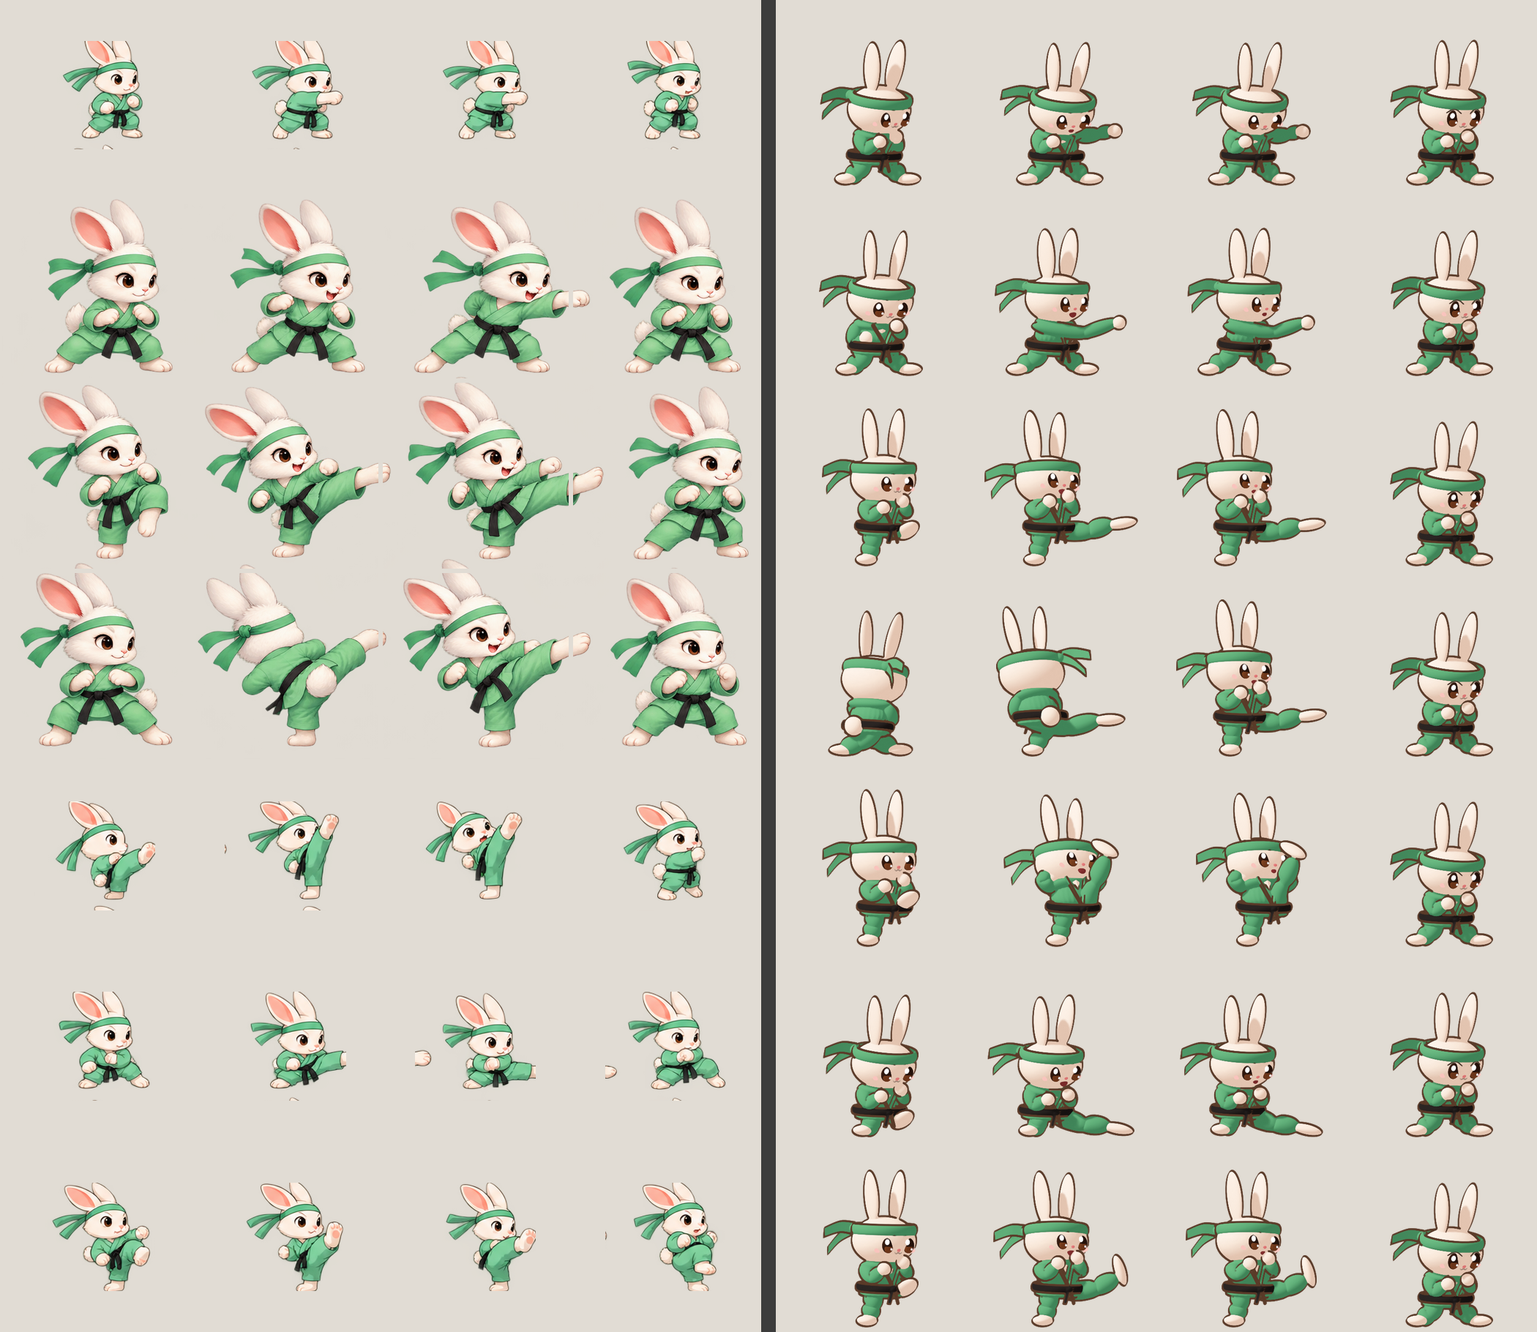
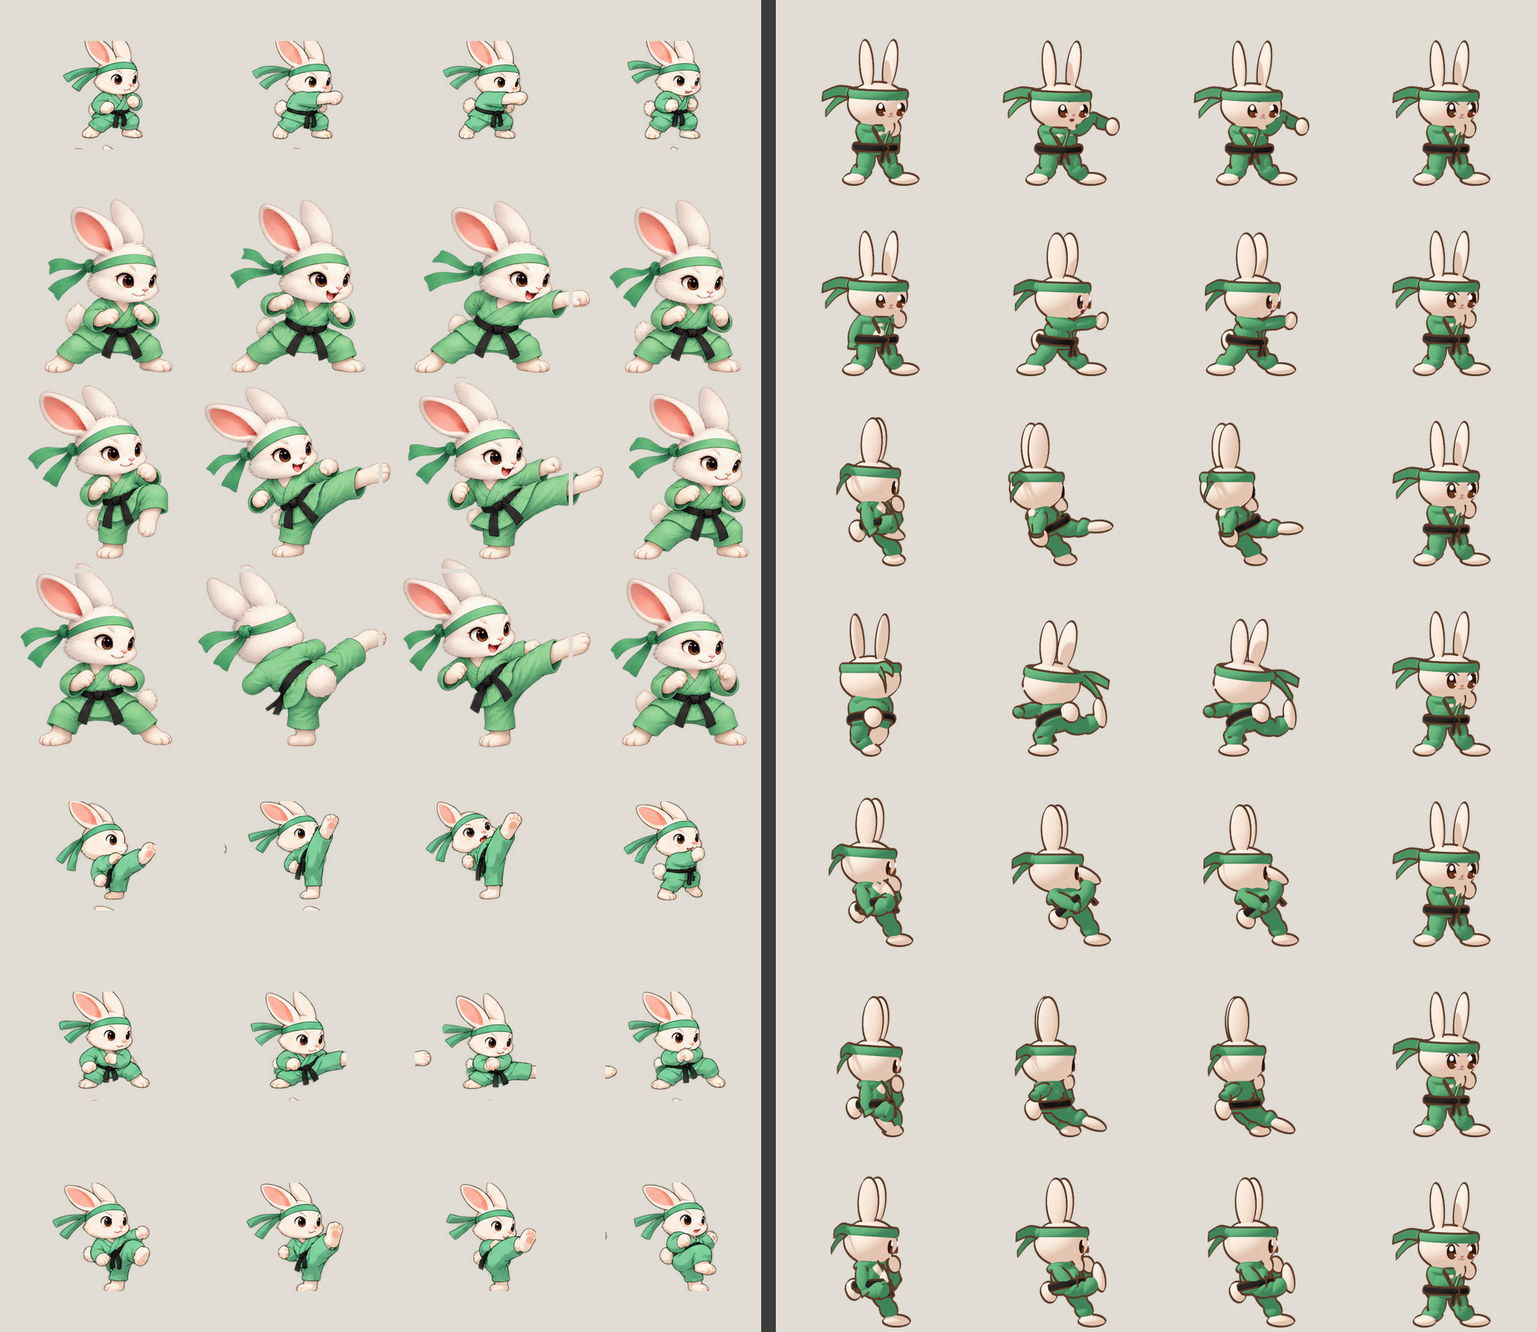
Rig moves follow karate body mechanics: no limb stretch, stance, hip rotation, pivots, level head
Longer legs and arms so real extension clears the round body; reach comes from steps,
hip and shoulder rotation and trunk lean. Rear-leg kicks with supporting-foot pivot.

Claude-Session: https://claude.ai/code/session_01Cxj9v8kuHG4m2LqNwpFq7h

diff --git a/tools/blender/moves.py b/tools/blender/moves.py
@@ -17,55 +17,74 @@ ONLY = set(argv[1].split(',')) if len(argv) > 1 and argv[1] else None
 RES = int(argv[2]) if len(argv) > 2 else 512
 
 # ---------- the moves ----------
-# Strike and foot targets ending in _s are in SCREEN space: (across to the right toward the opponent, depth away from
-# the camera, height). A strike aimed "forward" from a three-quarter view mostly travels toward the camera and reads
-# as nothing on screen; the painted sprites aim every strike straight across the screen, so these do too.
+# Real karate body mechanics (see the karate-body-mechanics skill), not stretchy limbs: reach comes from the stance,
+# a step, the hips and shoulders turning and the trunk leaning. Arms and legs keep their length.
+# The fighter stands on the line toward the opponent: model -Y is toward the opponent (screen right, yaw 90), +X is
+# its left = away from the camera. Orthodox stance: left foot and left fist lead; the hips and chest turn side-on
+# (hanmi) to their right, which is what shows the chest to the camera.
+# Hands are offsets from the chest bone's head and feet are positions on the ground, both in body space (they turn
+# with a spin, not with the hips); `root` steps the whole fighter.
 GROUND = .15
 def stance(**kw):
-    p = dict(pelvis=(0, 0, -.32), pelvisRot=(6, 0, 0), spine=(4, 0, 0), chest=(0, 0, 0), head=(4, 0, 6),
-             footL_s=(.8, .14, GROUND), footR_s=(-.78, -.12, GROUND), footLRot=(0, 0, 12), footRRot=(0, 0, -28),
-             handL=(.28, -.56, .26), handR=(-.3, -.52, .12), eyes='open', mouth='smile', ears=0, ties=0, yaw=28, spin=0)
+    p = dict(root=(0, 0, 0), spin=0, pelvis=(0, 0, -.3), pelvisRot=(4, 0, -58), spine=(4, 0, -4), chest=(0, 0, -8), head=(4, 0, 14),
+             footL=(.12, -.7, GROUND), footR=(-.16, .7, GROUND), footLRot=(0, 0, -8), footRRot=(0, 0, -60),
+             handL=(.1, -.62, .22), handR=(-.12, -.32, .24), eyes='open', mouth='smile', ears=0, ties=0, yaw=90)
     p.update(kw); return p
 FOCUS = dict(eyes='focus')
 MOVES = {}
-# Combo 1 - lead jab (kizami-zuki): the far fist snaps straight across at chin height, shoulders turn a little in.
-MOVES['punch1'] = [stance(**FOCUS, chest=(0, 0, 8), handL=(.32, -.4, .22)),
-                   stance(**FOCUS, chest=(4, 0, -10), head=(4, 0, 12), handL_s=(1.55, .05, 1.42), handR=(-.3, -.45, .14), mouth='open', ties=-8),
-                   stance(**FOCUS, chest=(4, 0, -9), head=(4, 0, 11), handL_s=(1.45, .05, 1.4), handR=(-.3, -.45, .14), ties=-4),
-                   stance(chest=(0, 0, -3))]
-# Combo 2 - reverse punch (gyaku-zuki): the near fist chambers at the hip, then drives across the body at full reach
-# as the hips turn; the other fist pulls back to the hip (hikite); back leg straight; kiai.
-MOVES['punch2'] = [stance(**FOCUS, chest=(0, 0, -8), handR=(-.38, -.18, -.12), handL=(.3, -.62, .3)),
-                   stance(**FOCUS, pelvis=(0, 0, -.3), pelvisRot=(8, 0, 10), chest=(6, 0, 12), head=(-14, 0, -6), handR_s=(1.75, -.2, 1.38),
-                          handL=(.38, -.12, -.12), footR_s=(-.95, -.12, GROUND), mouth='shout', ties=-12),
-                   stance(**FOCUS, pelvis=(0, 0, -.3), pelvisRot=(8, 0, 9), chest=(6, 0, 11), head=(-14, 0, -5), handR_s=(1.65, -.2, 1.38),
-                          handL=(.38, -.12, -.12), footR_s=(-.95, -.12, GROUND), mouth='open', ties=-7),
-                   stance(chest=(0, 0, 3))]
-def kick(chamber, target, footRot, lean=-14, low=False, arms_out=False):
-    base = dict(**FOCUS, pelvis=(0, 0, -.42 if low else -.06), footR_s=(-.42, -.1, GROUND), footRRot=(0, 0, -35))
-    out = dict(handL=(.55, -.2, .4), handR=(-.55, -.1, .45)) if arms_out else {}
-    return [stance(**base, footL_s=chamber, footLRot=(-30, 0, 0), spine=(lean * .4, 0, 0), handL=(.3, -.5, .3)),
-            stance(**base, footL_s=target, footLRot=footRot, spine=(lean, 0, 0), chest=(lean * .3, 0, 0), head=(-lean * .6, 0, 10),
-                   mouth='shout', ties=-14, **out),
-            stance(**base, footL_s=(target[0] - .08, target[1], target[2] - .04), footLRot=footRot, spine=(lean * .9, 0, 0), chest=(lean * .3, 0, 0),
-                   head=(-lean * .6, 0, 10), mouth='open', ties=-8, **out),
-            stance(pelvis=(0, 0, -.34), handL=(.28, -.55, .24))]
-# Combo 3 - roundhouse (mawashi-geri): knee chambers high, the leg snaps out flat at chest height, instep first.
-MOVES['combo_kick'] = kick((.6, -.1, .85), (1.75, .05, 1.1), 'point', lean=-20)
-# Combo 4 / back - spinning back kick (ushiro-geri): turn the back to the opponent and drive the heel across the
-# screen, then come round facing them with the leg still out (as in the painted frames), and settle.
-MOVES['spin_kick'] = [stance(**FOCUS, spin=110, chest=(0, 0, 8), ties=-12),
-                      stance(**FOCUS, spin=180, pelvis=(0, 0, -.06), footL_s=(1.7, .1, .95), footLRot='point', footR_s=(-.2, 0, GROUND),
-                             spine=(24, 0, 0), chest=(6, 0, 0), head=(-18, 0, 0), mouth='shout', ties=-20),
-                      stance(**FOCUS, spin=360, pelvis=(0, 0, -.06), footL_s=(1.7, .05, 1.05), footLRot='point', footR_s=(-.3, -.1, GROUND),
-                             spine=(-18, 0, 0), chest=(-4, 0, 0), head=(10, 0, 10), mouth='open', ties=-12),
-                      stance(pelvis=(0, 0, -.34))]
-# W - high kick: chamber, then the leg straight up past the head; standing leg straight, arms out for balance.
-MOVES['high_kick'] = kick((.55, -.3, 1.15), (.95, -.35, 2.45), 'sole', lean=-32, arms_out=True)
-# S - low sweep: drop low, the leg sweeps out flat along the floor.
-MOVES['low_kick'] = kick((.55, -.1, .35), (1.8, .05, .22), 'point', lean=8, low=True)
-# Forward - front push kick (mae-geri): knee up, then the sole drives across at chest height.
-MOVES['front_kick'] = kick((.55, -.15, .95), (1.65, .05, 1.3), 'sole', lean=-18)
+# Combo 1 - jab (kizami-zuki): the lead foot slides in, the lead hip and shoulder push forward (turning even more
+# side-on), the lead fist drives straight to chin height; the head stays level; slide back to stance.
+MOVES['punch1'] = [stance(**FOCUS, pelvis=(0, 0, -.26), handL=(.12, -.5, .2)),
+                   stance(**FOCUS, root=(0, -.28, 0), footL=(.12, -.8, GROUND), pelvisRot=(6, 0, -72), chest=(2, 0, -14), head=(4, 0, 32),
+                          handL=(.12, -1.55, .3), handR=(-.12, -.3, .26), mouth='open', ties=-8),
+                   stance(**FOCUS, root=(0, -.3, 0), footL=(.12, -.8, GROUND), pelvisRot=(6, 0, -74), chest=(2, 0, -14), head=(4, 0, 32),
+                          handL=(.12, -1.52, .3), handR=(-.12, -.3, .26), ties=-4),
+                   stance(root=(0, -.1, 0))]
+# Combo 2 - reverse punch (gyaku-zuki): from side-on, the rear heel drives and the back leg straightens, the hips
+# turn square to the target, the shoulders follow, the rear fist drives straight out as the lead fist pulls back
+# to the hip (hikite); the front knee bends over the foot; head level; kiai.
+MOVES['punch2'] = [stance(**FOCUS, handR=(-.22, -.05, -.28), handL=(.1, -.66, .22)),
+                   stance(**FOCUS, root=(0, -.15, 0), pelvis=(0, 0, -.34), pelvisRot=(8, 0, -32), spine=(6, 0, 2), chest=(2, 0, 4), head=(2, 0, 4),
+                          footL=(.12, -.85, GROUND), footR=(-.16, .9, GROUND), footRRot=(0, 0, -25),
+                          handR=(-.02, -1.25, .24), handL=(.24, .02, -.26), mouth='shout', ties=-12),
+                   stance(**FOCUS, root=(0, -.15, 0), pelvis=(0, 0, -.34), pelvisRot=(8, 0, -33), spine=(6, 0, 2), chest=(2, 0, 4), head=(2, 0, 4),
+                          footL=(.12, -.85, GROUND), footR=(-.16, .9, GROUND), footRRot=(0, 0, -25),
+                          handR=(-.02, -1.22, .24), handL=(.24, .02, -.26), mouth='open', ties=-7),
+                   stance(root=(0, -.05, 0))]
+# Combo 3 - roundhouse (mawashi-geri) with the rear leg, flowing on from the reverse punch: the front (supporting)
+# foot pivots out until its heel points at the target, the rear knee chambers high and comes across, the hip turns
+# over, the trunk leans away to balance the leg, the kicking-side arm swings back, the other guards the face; the
+# shin snaps out flat, instep first; re-chamber and set down.
+def rear_kick(chamber, target, foot_aim, lean, roll=0, hips_turn=60, pivot=100, low=False, step=0, arms_back=True):
+    sup = dict(footL=(.1, -.6, GROUND), footLRot=(0, 0, pivot), pelvis=(0, 0, -.42 if low else -.12))
+    back = dict(handR=(-.35, .3, -.05), handL=(.12, -.45, .3)) if arms_back else {}
+    return [stance(**FOCUS, **sup, footR=chamber, footRRot=foot_aim, pelvisRot=(lean * .4, roll * .4, hips_turn * .4 - 30), spine=(lean * .3, 0, 0), chest=(0, 0, -hips_turn * .3),
+                   handR=(-.2, -.1, .1)),
+            stance(**FOCUS, **sup, root=(0, -step, 0), footR=target, footRRot=foot_aim, pelvisRot=(lean, roll, hips_turn - 30), spine=(lean * .5, roll * .5, 0),
+                   chest=(0, 0, -hips_turn * .55), head=(0, 0, 10), mouth='shout', ties=-16, **back),
+            stance(**FOCUS, **sup, root=(0, -step, 0), footR=(target[0], target[1] + .05, target[2] - .05), footRRot=foot_aim, pelvisRot=(lean * .95, roll, hips_turn - 30),
+                   spine=(lean * .5, roll * .5, 0), chest=(0, 0, -hips_turn * .55), head=(0, 0, 10), mouth='open', ties=-10, **back),
+            stance(root=(0, -step * .6, 0))]
+MOVES['combo_kick'] = rear_kick((-.15, -.3, 1.0), (-.02, -1.35, 1.2), 'point', -24, roll=14, hips_turn=75, pivot=120, step=.15)
+# Combo 4 / back - spinning back kick (ushiro-geri): turn on the front foot until the back faces the target, knee to
+# the chest, trunk hunched forward; drive the heel straight back at the target, the hips pushing back behind it;
+# land while the back still faces it, then turn back into stance. Frame 1 is the back view the game uses.
+MOVES['spin_kick'] = [stance(**FOCUS, spin=95, pelvisRot=(14, 0, 0), spine=(14, 0, 0), chest=(0, 0, 0), head=(0, 0, -35),
+                             footL=(.0, -.2, GROUND), footR=(-.25, -.15, .7), footRRot='point', handL=(.15, -.35, .2), handR=(-.15, -.35, .2), ties=-14),
+                      stance(**FOCUS, spin=180, root=(0, -.25, 0), pelvisRot=(30, 0, -50), spine=(22, 0, -10), chest=(0, 0, -10), head=(-10, 0, 30),
+                             footL=(.08, -.3, GROUND), footR=(-.05, 1.2, 1.05), footRRot='sole', handL=(.2, -.35, .1), handR=(-.2, -.35, .1), mouth='shout', ties=-20),
+                      stance(**FOCUS, spin=180, root=(0, -.25, 0), pelvisRot=(28, 0, -50), spine=(20, 0, -10), chest=(0, 0, -10), head=(-10, 0, 30),
+                             footL=(.08, -.3, GROUND), footR=(-.05, 1.17, 1.0), footRRot='sole', handL=(.2, -.35, .1), handR=(-.2, -.35, .1), mouth='open', ties=-12),
+                      stance(root=(0, -.15, 0))]
+# W - high kick with the rear leg: knee chambers high, then the straight leg rises past the head as the trunk leans
+# back to balance it (the lower the trunk, the higher the leg) and the hips push forward; arms keep guard.
+MOVES['high_kick'] = rear_kick((-.12, -.4, 1.35), (-.06, -.85, 2.5), 'sole', -36, hips_turn=20, pivot=40, step=.1, arms_back=False)
+# S - low kick: sink on the bent supporting leg, the front foot pivots, the hip turns over and the rear shin
+# sweeps low at the opponent's legs; the trunk stays upright.
+MOVES['low_kick'] = rear_kick((-.15, -.25, .45), (-.02, -1.35, .3), 'point', -6, hips_turn=55, pivot=110, low=True, step=.1)
+# Forward - front push kick (mae-geri) with the rear leg: knee up to the chest, toes pulled back, then the hips thrust
+# forward behind the ball of the foot at chest height, upper body upright; retract to the chamber and set down.
+MOVES['front_kick'] = rear_kick((-.12, -.3, 1.1), (-.05, -1.3, 1.35), 'sole', -12, hips_turn=15, pivot=30, step=.2, arms_back=False)
 MOVES['idle'] = [stance()]
 
 # ---------- posing ----------
@@ -75,29 +94,29 @@ def set_bone(rig, name, R, pos=None):
     head = Vector(pos) if pos is not None else pb.head.copy()
     pb.matrix = Matrix.Translation(head) @ (R @ pb.bone.matrix_local.to_3x3()).to_4x4(); upd()
 
-def reach(rig, upper, lower, target, slack=.97):
-    # Cartoon reach: lengthen a two-bone limb along its bones only (the lower bone inherits it, aligned) so IK can
-    # land the paw or foot on a far target without the limb getting thicker.
+def clamp_reach(rig, upper, lower, target, slack=.985):
+    # Limbs never stretch: a target out of reach is pulled in along the limb, so reach has to come from the body.
     pu = rig.pose.bones[upper]; total = pu.bone.length + rig.pose.bones[lower].bone.length
-    k = max(1.0, (Vector(target) - pu.head).length / (total * slack)); pu.scale = (1, k, 1); upd()
+    base = pu.head.copy(); d = Vector(target) - base
+    return base + d.normalized() * min(d.length, total * slack) if d.length > 1e-6 else Vector(target)
 
 def apply_pose(rig, P):
     for pb in rig.pose.bones: pb.matrix_basis = Matrix.Identity(4)
     upd()
-    Rs = rotm((0, 0, P['spin']))
-    set_bone(rig, 'root', Rs, (0, 0, 0))
-    Rp = Rs @ rotm(P['pelvisRot']); set_bone(rig, 'pelvis', Rp, Rs @ (Vector((0, 0, 1.0)) + Vector(P['pelvis'])))
+    Rs = rotm((0, 0, P['spin'])); R0 = Vector(P['root'])
+    set_bone(rig, 'root', Rs, R0)
+    Rp = Rs @ rotm(P['pelvisRot']); set_bone(rig, 'pelvis', Rp, R0 + Rs @ (kbrig.warp((0, 0, 1.0)) + Vector(P['pelvis'])))
     Rsp = Rp @ rotm(P['spine']); set_bone(rig, 'spine', Rsp)
     Rc = Rsp @ rotm(P['chest']); set_bone(rig, 'chest', Rc)
-    Rh = Rc @ rotm(P['head']); set_bone(rig, 'head', Rh)
+    # Karate keeps the head level: the head takes the body's turn but not its lean, plus its own nod, tilt and turn.
+    turn = P['spin'] + P['pelvisRot'][2] + P['spine'][2] + P['chest'][2]
+    Rh = rotm((0, 0, turn)) @ rotm(P['head']); set_bone(rig, 'head', Rh)
     for s, L in ((1, 'L'), (-1, 'R')):
         Re = Rh @ rotm((-P['ears'], 0, 0)); set_bone(rig, f'ear_a.{L}', Re); set_bone(rig, f'ear_b.{L}', Re @ rotm((-P['ears'] * .6, 0, 0)))
-        chest_head = rig.pose.bones['chest'].head.copy(); toscreen = rotm((0, 0, -P['yaw']))  # screen space -> model space
-        hand = toscreen @ Vector(P['hand' + L + '_s']) if 'hand' + L + '_s' in P else chest_head + Rc @ Vector(P['hand' + L])
-        reach(rig, f'upper_arm.{L}', f'forearm.{L}', hand)
+        chest_head = rig.pose.bones['chest'].head.copy()
+        hand = clamp_reach(rig, f'upper_arm.{L}', f'forearm.{L}', chest_head + Rs @ Vector(P['hand' + L]))
         set_bone(rig, f'hand_ik.{L}', Rc, hand)
-        foot = toscreen @ Vector(P['foot' + L + '_s']) if 'foot' + L + '_s' in P else Rs @ Vector(P['foot' + L])
-        reach(rig, f'thigh.{L}', f'shin.{L}', foot)
+        foot = clamp_reach(rig, f'thigh.{L}', f'shin.{L}', R0 + Rs @ Vector(P['foot' + L]))
         fr = P['foot' + L + 'Rot']
         if isinstance(fr, str):  # aim the foot from the hip along the leg: toes pointed ('point') or sole to the target ('sole')
             hipj = rig.pose.bones[f'thigh.{L}'].head.copy(); d = (foot - hipj).normalized()
@@ -108,6 +127,7 @@ def apply_pose(rig, P):
             set_bone(rig, f'foot_ik.{L}', Rf, foot)  # Rf turns the rest foot (toes -Y, top +Z) to the new axes
         else:
             set_bone(rig, f'foot_ik.{L}', Rs @ rotm(fr), foot)
+
     for t in ('tie1', 'tie2'):
         set_bone(rig, f'{t}_a', Rh @ rotm((0, 0, P['ties']))); set_bone(rig, f'{t}_b', Rh @ rotm((0, 0, P['ties'] * 1.6)))
 
@@ -152,7 +172,7 @@ def kuwahara(scene, size=4):
 
 # ---------- build, key, render ----------
 bpy.ops.wm.read_factory_settings(use_empty=True)
-scene, root_empty, decals = kbpuppet.setup_scene(RES, 6.8, (0, 2.3), 2.0 * RES / 512)
+scene, root_empty, decals = kbpuppet.setup_scene(RES, 7.4, (0, 2.5), 2.0 * RES / 512)
 bpy.data.objects.remove(root_empty)
 rig = kbrig.build_armature(scene); parts = kbrig.build_body(rig, decals)
 names = [n for n in MOVES if not ONLY or n in ONLY]

diff --git a/tools/blender/kbrig.py b/tools/blender/kbrig.py
@@ -6,6 +6,10 @@ import bpy, bmesh, math
 from mathutils import Vector, Matrix, Quaternion
 import kbpuppet  # materials and colour helpers
 
+LEG = .25  # extra leg length: real kicks need legs that reach past the round body
+def warp(v):
+    v = Vector(v); t = min(max((v.z - .15) / (.92 - .15), 0.0), 1.0); return Vector((v.x, v.y, v.z + LEG * t))
+
 def ss(a, b, x):
     t = min(max((x - a) / (b - a), 0.0), 1.0); return t * t * (3 - 2 * t)
 
@@ -32,10 +36,10 @@ def bone_table():
     for s, L in ((1, 'L'), (-1, 'R')):
         T[f'ear_a.{L}'] = ((s * .34, .04, 2.82), (s * .43, .04, 3.45), 'head', True, False)
         T[f'ear_b.{L}'] = ((s * .43, .04, 3.45), (s * .5, .04, 4.15), f'ear_a.{L}', True, True)
-        T[f'upper_arm.{L}'] = ((s * .6, 0, 1.58), (s * .86, .08, 1.18), 'chest', True, False)
-        T[f'forearm.{L}'] = ((s * .86, .08, 1.18), (s * .98, -.02, .8), f'upper_arm.{L}', True, True)
-        T[f'hand_ik.{L}'] = ((s * .98, -.02, .8), (s * .98, -.22, .8), 'root', False, False)
-        T[f'hand.{L}'] = ((s * .98, -.02, .8), (s * .98, -.22, .8), f'hand_ik.{L}', True, False)
+        T[f'upper_arm.{L}'] = ((s * .52, 0, 1.58), (s * .86, .08, 1.0), 'chest', True, False)
+        T[f'forearm.{L}'] = ((s * .86, .08, 1.0), (s * .96, -.04, .42), f'upper_arm.{L}', True, True)
+        T[f'hand_ik.{L}'] = ((s * .96, -.04, .42), (s * .96, -.24, .42), 'root', False, False)
+        T[f'hand.{L}'] = ((s * .96, -.04, .42), (s * .96, -.24, .42), f'hand_ik.{L}', True, False)
         T[f'thigh.{L}'] = ((s * .3, 0, .92), (s * .32, -.07, .53), 'pelvis', True, False)
         T[f'shin.{L}'] = ((s * .32, -.07, .53), (s * .34, 0, .15), f'thigh.{L}', True, True)
         T[f'foot_ik.{L}'] = ((s * .34, 0, .15), (s * .34, -.4, .15), 'root', False, False)
@@ -50,7 +54,7 @@ def build_armature(scene):
     bpy.context.view_layer.objects.active = rig; bpy.ops.object.mode_set(mode='EDIT')
     T = bone_table()
     for n, (h, t, par, deform, conn) in T.items():
-        eb = arm.edit_bones.new(n); eb.head, eb.tail = h, t; eb.use_deform = deform
+        eb = arm.edit_bones.new(n); eb.head, eb.tail = warp(h), warp(t); eb.use_deform = deform
     for n, (h, t, par, deform, conn) in T.items():
         eb = arm.edit_bones[n]
         if par: eb.parent = arm.edit_bones[par]; eb.use_connect = conn
@@ -117,6 +121,7 @@ class Parts:
     def __init__(self, rig, decals):
         self.rig, self.decals, self.objs, self.groups = rig, decals, [], {}
     def add(self, name, bm, mat, weights, mask='none', decal=False, smooth=True, subsurf=0, bevel=0):
+        for v in bm.verts: v.co = warp(v.co)
         me = bpy.data.meshes.new(name); bm.to_mesh(me); bm.free()
         ob = bpy.data.objects.new(name, me); (self.decals if decal else bpy.context.scene.collection).objects.link(ob)
         me.materials.append(mat); ob['mask'] = mask; ob.parent = self.rig
@@ -168,19 +173,19 @@ def build_body(rig, decals):
         P.add(f'ear.{L}', ellipsoid(mid, (.31, .13, (e2 - e0).length / 2 + .06), R), FUR, earw)
         P.add(f'inner.{L}', ellipsoid(mid + Vector((0, -.09, -.02)), (.2, .06, (e2 - e0).length / 2 - .06), R), m['PINK'], earw, decal=True)
     # torso: tapered jacket, round shoulders, skirt over the trousers, fur V and lapels
-    P.add('jacket', cone((0, 0, 1.36), .72, .55, .72, .75), GI, torso, subsurf=2)
-    P.add('shoulders', ellipsoid((0, 0, 1.64), (.68, .46, .2)), GI, rigid('chest'))
-    P.add('skirt', cone((0, 0, .9), .78, .7, .3, .78), GI, rigid('pelvis'), subsurf=2)
+    P.add('jacket', cone((0, 0, 1.36), .64, .5, .72, .76), GI, torso, subsurf=2)
+    P.add('shoulders', ellipsoid((0, 0, 1.64), (.6, .42, .2)), GI, rigid('chest'))
+    P.add('skirt', cone((0, 0, .95), .7, .63, .26, .78), GI, rigid('pelvis'), subsurf=2)
     bm = bmesh.new(); bmesh.ops.create_cone(bm, cap_ends=True, segments=3, radius1=.24, radius2=0, depth=.05)
-    _xf(bm, Matrix.Translation((0, -.42, 1.6)) @ Matrix.Rotation(math.radians(90), 4, 'X') @ Matrix.Rotation(math.radians(180), 4, 'Z') @ Matrix.Diagonal((1, 1.3, 1, 1)))
+    _xf(bm, Matrix.Translation((0, -.38, 1.6)) @ Matrix.Rotation(math.radians(90), 4, 'X') @ Matrix.Rotation(math.radians(180), 4, 'Z') @ Matrix.Diagonal((1, 1.3, 1, 1)))
     P.add('chestV', bm, FUR, rigid('chest'), smooth=False)
     for s in (1, -1):
-        P.add(f'lapel{s}', box((s * .3, -.43, 1.7), (-s * .03, -.56, 1.06), .1, .05), GI, torso, smooth=False, bevel=.02)
+        P.add(f'lapel{s}', box((s * .27, -.39, 1.7), (-s * .03, -.51, 1.06), .1, .05), GI, torso, smooth=False, bevel=.02)
     # belt, knot and hanging ends
-    P.add('belt', ring((0, 0, 1.06), .73, .57, 1.3, .085), m['BELT'], rigid('pelvis'), 'belt')
-    P.add('knot', ellipsoid((0, -.58, 1.06), (.12, .08, .1)), m['BELT'], rigid('pelvis'), 'belt')
+    P.add('belt', ring((0, 0, 1.06), .66, .52, 1.3, .085), m['BELT'], rigid('pelvis'), 'belt')
+    P.add('knot', ellipsoid((0, -.53, 1.06), (.12, .08, .1)), m['BELT'], rigid('pelvis'), 'belt')
     for s in (1, -1):
-        P.add(f'beltend{s}', box((s * .04, -.6, 1.01), (s * .14, -.64, .67), .11, .045), m['BELT'], rigid('pelvis'), 'belt', smooth=False, bevel=.015)
+        P.add(f'beltend{s}', box((s * .04, -.55, 1.01), (s * .14, -.59, .72), .11, .045), m['BELT'], rigid('pelvis'), 'belt', smooth=False, bevel=.015)
     P.add('tail', ellipsoid((0, .58, 1.0), (.28, .25, .28)), FUR, rigid('tail'))
     # head
     P.add('head', ellipsoid(HEAD_C, HEAD_S, segs=48), FUR, rigid('head'))
